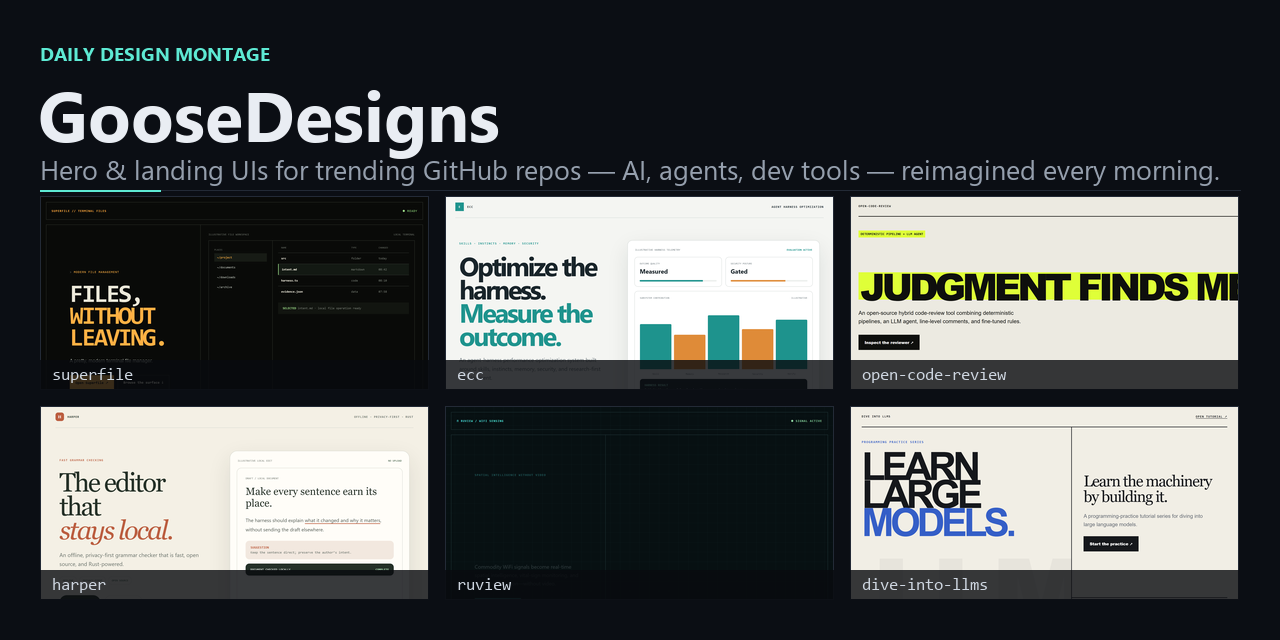
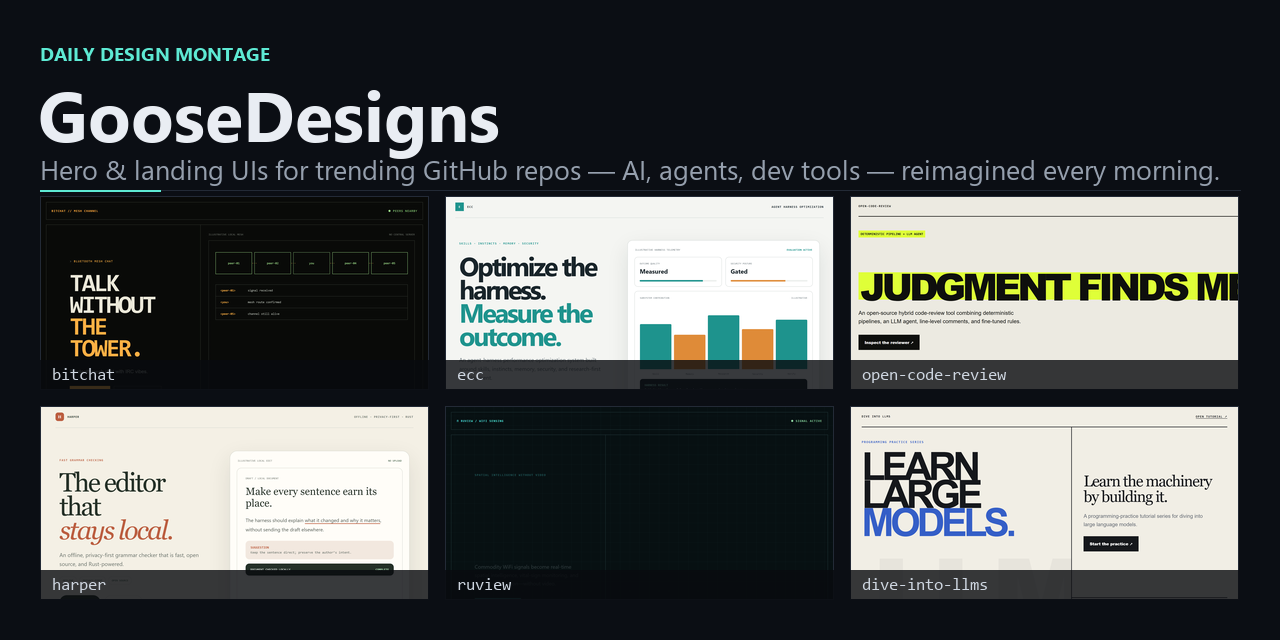
Correct 2026-07-25 rep to current trending repo

diff --git a/days/2026-07-25/03-bitchat.html b/days/2026-07-25/03-bitchat.html
@@ -1,0 +1,4 @@
+<!doctype html><html lang="en"><head><meta charset="utf-8"><meta name="viewport" content="width=device-width,initial-scale=1"><title>Bitchat — Talk Without the Tower</title><style>
+:root{--black:#090a08;--paper:#ece9da;--amber:#ffb144;--green:#9ddd89;--muted:#737970;--line:#30352e}*{box-sizing:border-box}html{background:var(--black);color:var(--paper);font-family:ui-monospace,SFMono-Regular,Consolas,monospace}body{margin:0;min-height:100vh;background:repeating-linear-gradient(0deg,transparent 0 3px,rgba(255,255,255,.012) 4px)}.page{min-height:100vh;padding:20px;display:grid;grid-template-rows:58px 1fr 62px;gap:16px}.bar,.foot{border:1px solid var(--line);display:flex;align-items:center;justify-content:space-between;padding:0 17px;text-transform:uppercase;font-size:10px;letter-spacing:.12em}.brand{color:var(--amber);font-weight:700}.status{display:flex;align-items:center;gap:8px;color:var(--green)}.status:before{content:"";width:7px;height:7px;border-radius:50%;background:var(--green)}.hero{display:grid;grid-template-columns:.82fr 1.18fr;border:1px solid var(--line)}.copy{padding:clamp(44px,6vw,86px);border-right:1px solid var(--line);display:flex;flex-direction:column;justify-content:center}.prompt{color:var(--amber);font-size:10px;text-transform:uppercase;letter-spacing:.13em}.prompt:before{content:"> ";color:var(--muted)}h1{font-size:clamp(58px,6.5vw,103px);line-height:.86;letter-spacing:-.07em;text-transform:uppercase;margin:29px 0}h1 span{display:block;color:var(--amber)}.lede{color:#a9afa7;font:16px/1.65 Arial,"Segoe UI",sans-serif;max-width:580px;margin:0}.actions{display:flex;gap:12px;margin-top:34px;flex-wrap:wrap}.btn{min-height:48px;padding:0 18px;display:inline-flex;align-items:center;border:1px solid var(--amber);background:var(--amber);color:var(--black);text-decoration:none;font-size:12px;font-weight:800}.btn.alt{background:transparent;color:var(--paper);border-color:var(--line)}.btn:hover,.btn:focus-visible{box-shadow:0 0 0 4px rgba(255,177,68,.1);transform:translateY(-2px)}.terminal{padding:26px;display:grid;grid-template-rows:auto 1fr auto;gap:14px}.term-head,.term-foot{display:flex;justify-content:space-between;color:var(--muted);font-size:9px;text-transform:uppercase}.window{border:1px solid var(--line);min-height:590px;padding:22px;display:flex;flex-direction:column;justify-content:space-between}.mesh{display:grid;grid-template-columns:repeat(5,1fr);align-items:center;gap:8px;margin:16px 0 34px}.peer{height:72px;border:1px solid var(--line);display:grid;place-items:center;color:var(--green);font-size:10px;position:relative}.peer:not(:last-child):after{content:"···";position:absolute;right:-17px;color:var(--amber)}.chat{border:1px solid var(--line)}.msg{display:grid;grid-template-columns:90px 1fr;padding:13px 15px;border-bottom:1px solid var(--line);font-size:10px}.msg:last-child{border-bottom:0}.msg strong{color:var(--amber)}.msg span{color:#aeb4ab}.command{margin-top:18px;padding:13px 15px;background:#121510;color:var(--muted);font-size:10px}.command strong{color:var(--green)}.foot{color:var(--muted)}.foot strong{color:var(--amber)}
+@media(max-width:900px){.hero{grid-template-columns:1fr}.copy{border-right:0;border-bottom:1px solid var(--line)}.page{padding:10px}}@media(max-width:560px){h1{font-size:52px}.mesh{grid-template-columns:repeat(3,1fr)}.peer:nth-child(n+4){display:none}.msg{grid-template-columns:70px 1fr}.foot{padding:18px;gap:12px;align-items:flex-start;flex-direction:column}}@media(prefers-reduced-motion:no-preference){.copy>*{animation:rise .62s cubic-bezier(.22,1,.36,1) both}.copy h1{animation-delay:.06s}.terminal{animation:rise .72s .08s cubic-bezier(.22,1,.36,1) both}.peer{animation:pulse 2.8s ease-in-out infinite}.peer:nth-child(2){animation-delay:.15s}.peer:nth-child(3){animation-delay:.3s}@keyframes rise{from{opacity:0;transform:translateY(17px)}}@keyframes pulse{50%{border-color:var(--green)}}}
+</style></head><body><main class="page"><header class="bar"><div class="brand">bitchat // mesh channel</div><div class="status">peers nearby</div></header><section class="hero"><div class="copy"><div class="prompt">Bluetooth mesh chat</div><h1>Talk without<span>the tower.</span></h1><p class="lede">Bluetooth mesh chat with IRC vibes.</p><div class="actions"><a class="btn" href="https://github.com/permissionlesstech/bitchat">Open Bitchat ↗</a><a class="btn alt" href="#mesh">Inspect the mesh ↓</a></div></div><div class="terminal" id="mesh"><div class="term-head"><span>Illustrative local mesh</span><span>no central server</span></div><div class="window"><div><div class="mesh"><div class="peer">peer-01</div><div class="peer">peer-02</div><div class="peer">you</div><div class="peer">peer-04</div><div class="peer">peer-05</div></div><div class="chat"><div class="msg"><strong>&lt;peer-01&gt;</strong><span>signal received</span></div><div class="msg"><strong>&lt;you&gt;</strong><span>mesh route confirmed</span></div><div class="msg"><strong>&lt;peer-05&gt;</strong><span>channel still alive</span></div></div></div><div class="command"><strong>LOCAL MESH</strong> · messages route peer to peer</div></div><div class="term-foot"><span>Bluetooth / IRC vibes</span><span>Illustrative interface</span></div></div></section><footer class="foot"><span>Resilience begins when communication survives the missing center.</span><strong>mono-zine / amber-green</strong></footer></main></body></html>

diff --git a/catalog.html b/catalog.html
@@ -86,7 +86,7 @@ img{display:block;max-width:100%}
     <div class="grid">
       <a class="mock" data-style="brutalist" href="days/2026-07-25/01-open-code-review.html"><span class="shot"><img loading="lazy" src="days/2026-07-25/01-open-code-review.png" alt="alibaba/open-code-review landing-page hero mock, brutalist style"></span><span class="mm"><b>alibaba/open-code-review</b><i>brutalist</i></span></a>
       <a class="mock" data-style="data-viz" href="days/2026-07-25/02-ecc.html"><span class="shot"><img loading="lazy" src="days/2026-07-25/02-ecc.png" alt="affaan-m/ECC landing-page hero mock, data-viz style"></span><span class="mm"><b>affaan-m/ECC</b><i>data-viz</i></span></a>
-      <a class="mock" data-style="mono-zine" href="days/2026-07-25/03-superfile.html"><span class="shot"><img loading="lazy" src="days/2026-07-25/03-superfile.png" alt="yorukot/superfile landing-page hero mock, mono-zine style"></span><span class="mm"><b>yorukot/superfile</b><i>mono-zine</i></span></a>
+      <a class="mock" data-style="mono-zine" href="days/2026-07-25/03-bitchat.html"><span class="shot"><img loading="lazy" src="days/2026-07-25/03-bitchat.png" alt="permissionlesstech/bitchat landing-page hero mock, mono-zine style"></span><span class="mm"><b>permissionlesstech/bitchat</b><i>mono-zine</i></span></a>
     </div>
   </section>
   <section class="day" data-day="2026-07-24">

diff --git a/index.html b/index.html
@@ -98,7 +98,7 @@ html.js.revealed .reveal{opacity:1;transform:none}
     <div class="grid">
       <a class="mock" href="days/2026-07-25/01-open-code-review.html"><span class="shot"><img loading="lazy" src="days/2026-07-25/01-open-code-review.png" alt="alibaba/open-code-review landing-page hero mock, brutalist style"></span><span class="mm"><b>alibaba/open-code-review</b><i>brutalist</i></span></a>
       <a class="mock" href="days/2026-07-25/02-ecc.html"><span class="shot"><img loading="lazy" src="days/2026-07-25/02-ecc.png" alt="affaan-m/ECC landing-page hero mock, data-viz style"></span><span class="mm"><b>affaan-m/ECC</b><i>data-viz</i></span></a>
-      <a class="mock" href="days/2026-07-25/03-superfile.html"><span class="shot"><img loading="lazy" src="days/2026-07-25/03-superfile.png" alt="yorukot/superfile landing-page hero mock, mono-zine style"></span><span class="mm"><b>yorukot/superfile</b><i>mono-zine</i></span></a>
+      <a class="mock" href="days/2026-07-25/03-bitchat.html"><span class="shot"><img loading="lazy" src="days/2026-07-25/03-bitchat.png" alt="permissionlesstech/bitchat landing-page hero mock, mono-zine style"></span><span class="mm"><b>permissionlesstech/bitchat</b><i>mono-zine</i></span></a>
     </div>
   </section>
   <section class="reveal">

diff --git a/CATALOG.md b/CATALOG.md
@@ -8,7 +8,7 @@ Tip: press <kbd>t</kbd> in GitHub's file finder, or search e.g. `repo:NewGooseFa
 |------|-----|------------|-------|--------|-------------|---------|---------|------|
 | 2026-07-25 | Saturday | [alibaba/open-code-review](https://github.com/alibaba/open-code-review) | brutalist | acid-yellow | expose hybrid review as parse→rules→agent→comment separating precision from judgment | landed: trust without an AI reviewer persona | [png](days/2026-07-25/01-open-code-review.png) | [2026-07-25](days/2026-07-25/) |
 | 2026-07-25 | Saturday | [affaan-m/ECC](https://github.com/affaan-m/ECC) | data-viz | teal-orange | frame harness optimization as measured skills, memory, research, security, and verification | landed: whole-system performance becomes the product | [png](days/2026-07-25/02-ecc.png) | [2026-07-25](days/2026-07-25/) |
-| 2026-07-25 | Saturday | [yorukot/superfile](https://github.com/yorukot/superfile) | mono-zine | amber-green | make terminal file management immediately usable through a tree, file list, and local operation | landed: modern without losing keyboard-first clarity | [png](days/2026-07-25/03-superfile.png) | [2026-07-25](days/2026-07-25/) |
+| 2026-07-25 | Saturday | [permissionlesstech/bitchat](https://github.com/permissionlesstech/bitchat) | mono-zine | amber-green | make peer-to-peer communication tangible as a Bluetooth mesh with IRC-style messages | landed: resilience feels structural rather than marketed | [png](days/2026-07-25/03-bitchat.png) | [2026-07-25](days/2026-07-25/) |
 | 2026-07-24 | Friday | [Lordog/dive-into-llms](https://github.com/Lordog/dive-into-llms) | poster | ink-blue | turn an LLM tutorial into a learn→build→test manifesto rather than a course catalogue | landed: practice feels consequential without pretending it is effortless | [png](days/2026-07-24/01-dive-into-llms.png) | [2026-07-24](days/2026-07-24/) |
 | 2026-07-24 | Friday | [ruvnet/RuView](https://github.com/ruvnet/RuView) | hud | radar-cyan | show camera-free presence as a restrained radar instrument with explicit sensing source | landed: spatial intelligence is tangible while privacy stays central | [png](days/2026-07-24/02-ruview.png) | [2026-07-24](days/2026-07-24/) |
 | 2026-07-24 | Friday | [Automattic/harper](https://github.com/Automattic/harper) | editorial | rust-sage | make offline grammar checking a quiet editorial companion with one local edit | landed: privacy becomes behavior rather than a badge | [png](days/2026-07-24/03-harper.png) | [2026-07-24](days/2026-07-24/) |

diff --git a/styles/mono-zine.md b/styles/mono-zine.md
@@ -4,7 +4,7 @@
 
 | Date | Repository | Accent | Idea tested | Verdict | Preview |
 |------|------------|--------|-------------|---------|---------|
-| [2026-07-25](../days/2026-07-25/) | [yorukot/superfile](https://github.com/yorukot/superfile) | amber-green | make terminal file management immediately usable through a tree, file list, and local operation | landed: modern without losing keyboard-first clarity | [png](../days/2026-07-25/03-superfile.png) |
+| [2026-07-25](../days/2026-07-25/) | [permissionlesstech/bitchat](https://github.com/permissionlesstech/bitchat) | amber-green | make peer-to-peer communication tangible as a Bluetooth mesh with IRC-style messages | landed: resilience feels structural rather than marketed | [png](../days/2026-07-25/03-bitchat.png) |
 | [2026-07-18](../days/2026-07-18/) | [KnockOutEZ/wigolo](https://github.com/KnockOutEZ/wigolo) | safety-orange | make local-first research tangible as one search→fetch→crawl→research terminal journey | landed: the no-key, no-cloud proposition reads as infrastructure | [png](../days/2026-07-18/03-wigolo.png) |
 | [2026-07-14](../days/2026-07-14/) | [virattt/ai-hedge-fund](https://github.com/virattt/ai-hedge-fund) | market-green | frame an AI hedge-fund team as coordinated committee judgment rather than a speculative trading chart | landed | [png](../days/2026-07-14/03-ai-hedge-fund.png) |
 | [2026-07-09](../days/2026-07-09/) | [vxcontrol/pentagi](https://github.com/vxcontrol/pentagi) | phosphor-green | render autonomous pentest as an ASCII kill-chain + tagged live engagement run-log | landed | [png](../days/2026-07-09/02-pentagi.png) |

diff --git a/days/2026-07-25/README.md b/days/2026-07-25/README.md
@@ -22,12 +22,12 @@
 - **Verdict:** landed: whole-system performance becomes the product
 - [live .html](./02-ecc.html) · [repo on GitHub](https://github.com/affaan-m/ECC)
 
-## [yorukot/superfile](https://github.com/yorukot/superfile)
+## [permissionlesstech/bitchat](https://github.com/permissionlesstech/bitchat)
 
-![superfile — mono-zine](./03-superfile.png)
+![bitchat — mono-zine](./03-bitchat.png)
 
 - **Style:** mono-zine / amber-green
-- **Idea tested:** make terminal file management immediately usable through a tree, file list, and local operation
-- **Verdict:** landed: modern without losing keyboard-first clarity
-- [live .html](./03-superfile.html) · [repo on GitHub](https://github.com/yorukot/superfile)
+- **Idea tested:** make peer-to-peer communication tangible as a Bluetooth mesh with IRC-style messages
+- **Verdict:** landed: resilience feels structural rather than marketed
+- [live .html](./03-bitchat.html) · [repo on GitHub](https://github.com/permissionlesstech/bitchat)
 

diff --git a/README.md b/README.md
@@ -20,7 +20,7 @@ Use it for **UI inspiration, web-design examples, landing-page ideas, and front-
 <table><tr>
 <td align="center" width="33%"><a href="days/2026-07-25/"><img src="days/2026-07-25/01-open-code-review.png" width="320" alt="alibaba/open-code-review"></a><br><sub><b>alibaba/open-code-review</b><br>brutalist</sub></td>
 <td align="center" width="33%"><a href="days/2026-07-25/"><img src="days/2026-07-25/02-ecc.png" width="320" alt="affaan-m/ECC"></a><br><sub><b>affaan-m/ECC</b><br>data-viz</sub></td>
-<td align="center" width="33%"><a href="days/2026-07-25/"><img src="days/2026-07-25/03-superfile.png" width="320" alt="yorukot/superfile"></a><br><sub><b>yorukot/superfile</b><br>mono-zine</sub></td>
+<td align="center" width="33%"><a href="days/2026-07-25/"><img src="days/2026-07-25/03-bitchat.png" width="320" alt="permissionlesstech/bitchat"></a><br><sub><b>permissionlesstech/bitchat</b><br>mono-zine</sub></td>
 </tr></table>
 
 [See the full day →](days/2026-07-25/)
